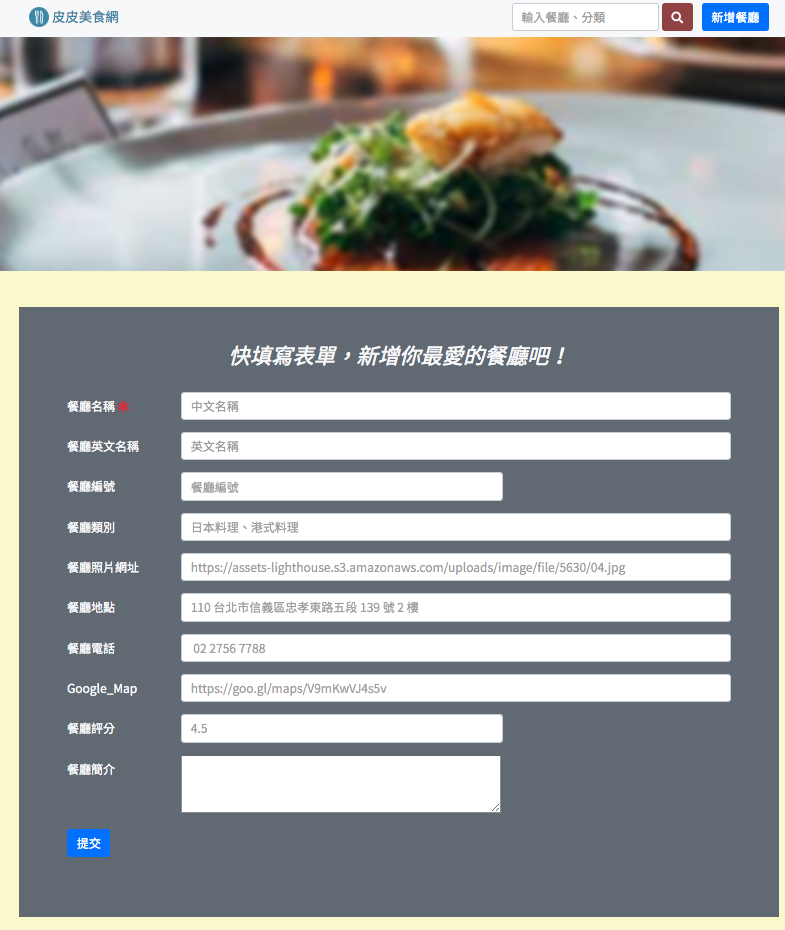
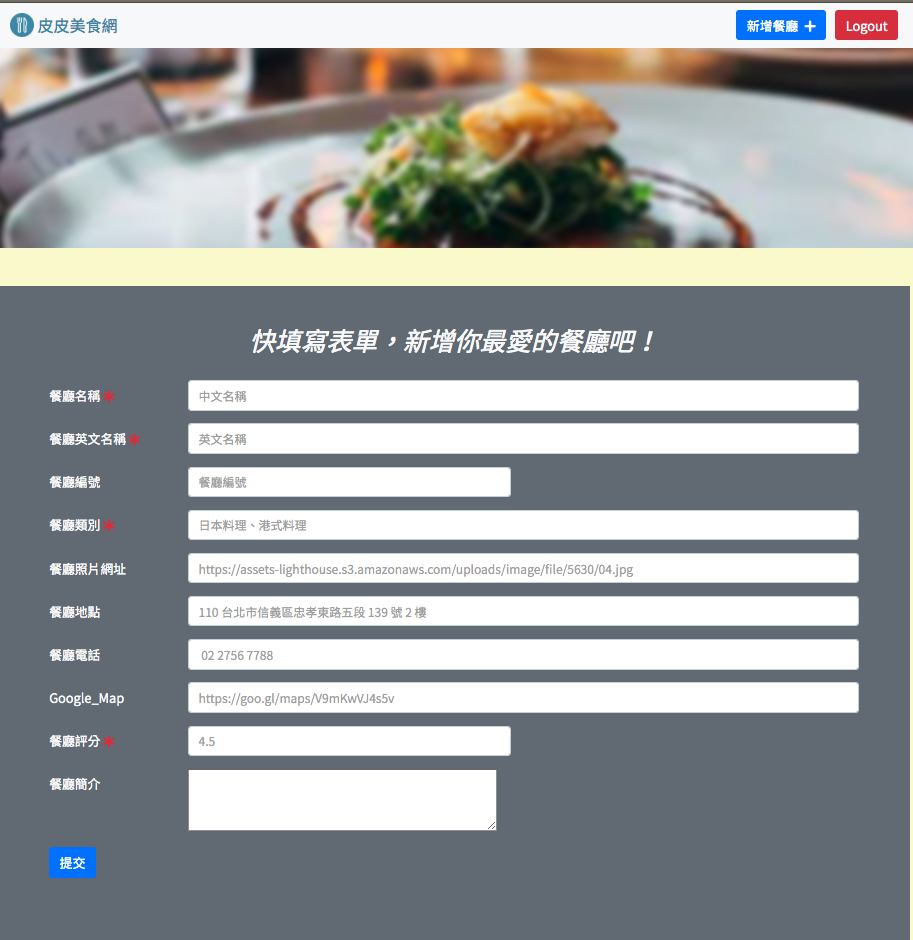
Update home.js to combine seach and sort function together, also update README.md.

diff --git a/routes/home.js b/routes/home.js
@@ -5,18 +5,36 @@ const {
   authenticated
 } = require('../config/auth');
 
-// 1. 列出全部 restaurant 頁面
+// 1. 列出全部 restaurant 頁面，含搜尋與排序功能
 router.get('/', authenticated, (req, res) => {
+  // 宣告搜尋與篩選變數
+  const searchKeyword = req.query.searchKeyword;
+  const searchKeywordRegExp = new RegExp(req.query.searchKeyword, 'i');
+  const sortField = req.query.sortField || 'name';
+  const sortOrder = req.query.sortOrder || 'asc';
+  const sortObject = {};
+  sortObject[sortField] = sortOrder;
+
   Restaurant.find({
       userId: req.user._id,
+      $or: [{
+        name: {
+          $regex: searchKeywordRegExp
+        }
+      }, {
+        category: {
+          $regex: searchKeywordRegExp
+        }
+      }],
     })
-    .sort({
-      name: 'asc'
-    })
+    .sort(sortObject)
     .exec((err, restaurants) => {
       if (err) return console.error(err);
       return res.render('index', {
-        restaurants: restaurants
+        restaurants,
+        searchKeyword,
+        sortField,
+        sortOrder
       })
     })
 });

diff --git a/app.js b/app.js
@@ -4,12 +4,11 @@ const port = 3000;
 const exphbs = require('express-handlebars');
 const bodyParser = require('body-parser');
 const methodOverride = require('method-override');
+const Restaurant = require('./models/restaurant')
 
 // Router Variables
 const HomeRouter = require('./routes/home');
 const RestaurantsRouter = require('./routes/restaurants');
-const SearchRouter = require('./routes/search');
-const SortRouter = require('./routes/sort');
 const UserRouter = require('./routes/users');
 const AuthRouter = require('./routes/auths');
 
@@ -42,7 +41,6 @@ db.once('open', () => {
   console.log('mongodb connected!');
 });
 
-const Restaurant = require('./models/restaurant')
 
 app.engine('handlebars', exphbs({
   defaultLayout: 'main'
@@ -83,10 +81,6 @@ app.use((req, res, next) => {
 app.use('/', HomeRouter);
 // restaurants 路由
 app.use('/restaurants', RestaurantsRouter);
-// search 路由
-app.use('/search', SearchRouter);
-// sort 路由
-app.use('/sort', SortRouter);
 // user 路由
 app.use('/users', UserRouter);
 // auth 路由

diff --git a/public/stylesheets/style.css b/public/stylesheets/style.css
@@ -26,10 +26,25 @@ header {
   position: relative;
   z-index: -1;
   margin: -5px;
-  height: 360px;
+  height: 260px;
   background: #dddddd center center url('https://images.unsplash.com/photo-1414235077428-338989a2e8c0?ixlib=rb-1.2.1&ixid=eyJhcHBfaWQiOjEyMDd9&auto=format&fit=crop&w=500&q=60');
   background-size: cover;
   filter: blur(3px);
+}
+
+.search-bar .search-bar-outer {
+  margin: 0 auto;
+  max-width: 680px;
+  background-color: #fce2cf;
+  border-radius: 8px;
+  padding: 20px 30px;
+  border: 0;
+  margin-top: -60px;
+  box-shadow: 0 3px 10px rgba(0, 0, 0, 0.1);
+}
+
+.search-bar .search-bar-inner h4 {
+  color: #c02f1c;
 }
 
 .form-control::placeholder {

diff --git a/models/restaurant.js b/models/restaurant.js
@@ -11,9 +11,11 @@ const restaurantSchema = new Schema({
   },
   name_en: {
     type: String,
+    required: true,
   },
   category: {
     type: String,
+    required: true,
   },
   image: {
     type: String,
@@ -29,6 +31,7 @@ const restaurantSchema = new Schema({
   },
   rating: {
     type: Number,
+    required: true,
   },
   description: {
     type: String,

diff --git a/README.md b/README.md
@@ -16,7 +16,7 @@
 
 1. 使用者可以藉由第三方快速註冊登入(Facebook, Google)
 2. 使用者可以點擊任一餐廳，查看更多餐廳資訊，如地址、電話與簡介
-3. 使用者可以依照中文名稱、英文名稱、類別進行餐廳搜尋
+3. 使用者可以依照中文名稱、英文名稱與餐廳類別進行搜尋
 4. 使用者可以新增一家餐廳
 5. 使用者可以瀏覽一家餐廳的詳細資訊
 6. 使用者可以瀏覽全部所有餐廳
